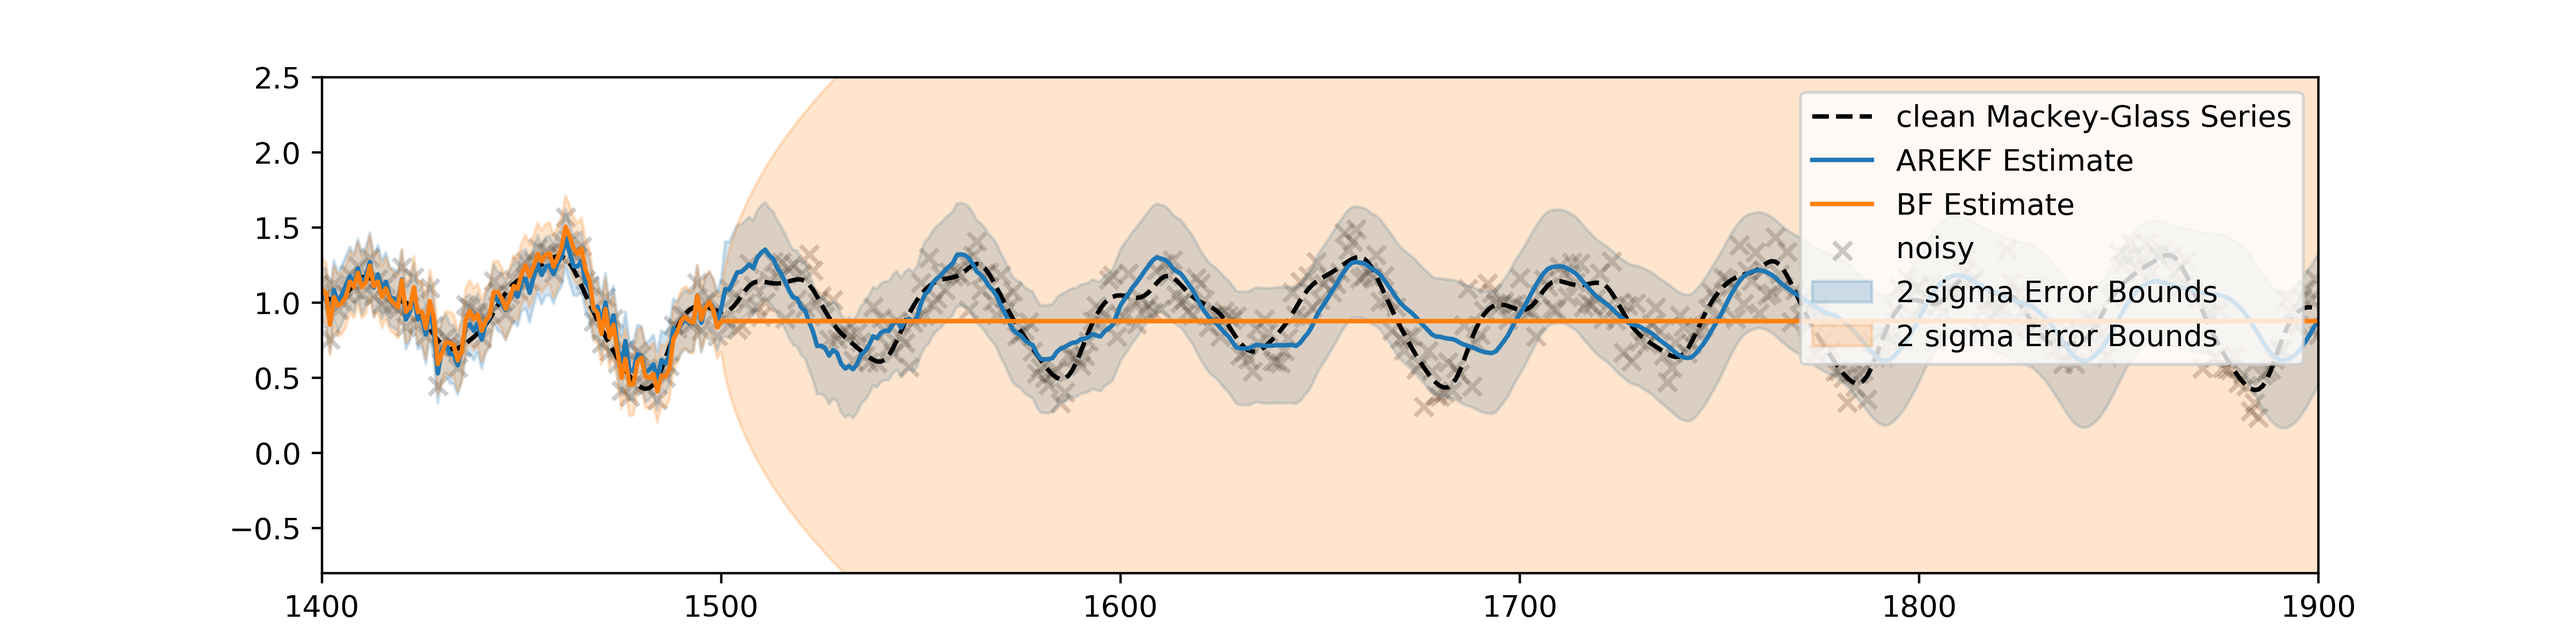
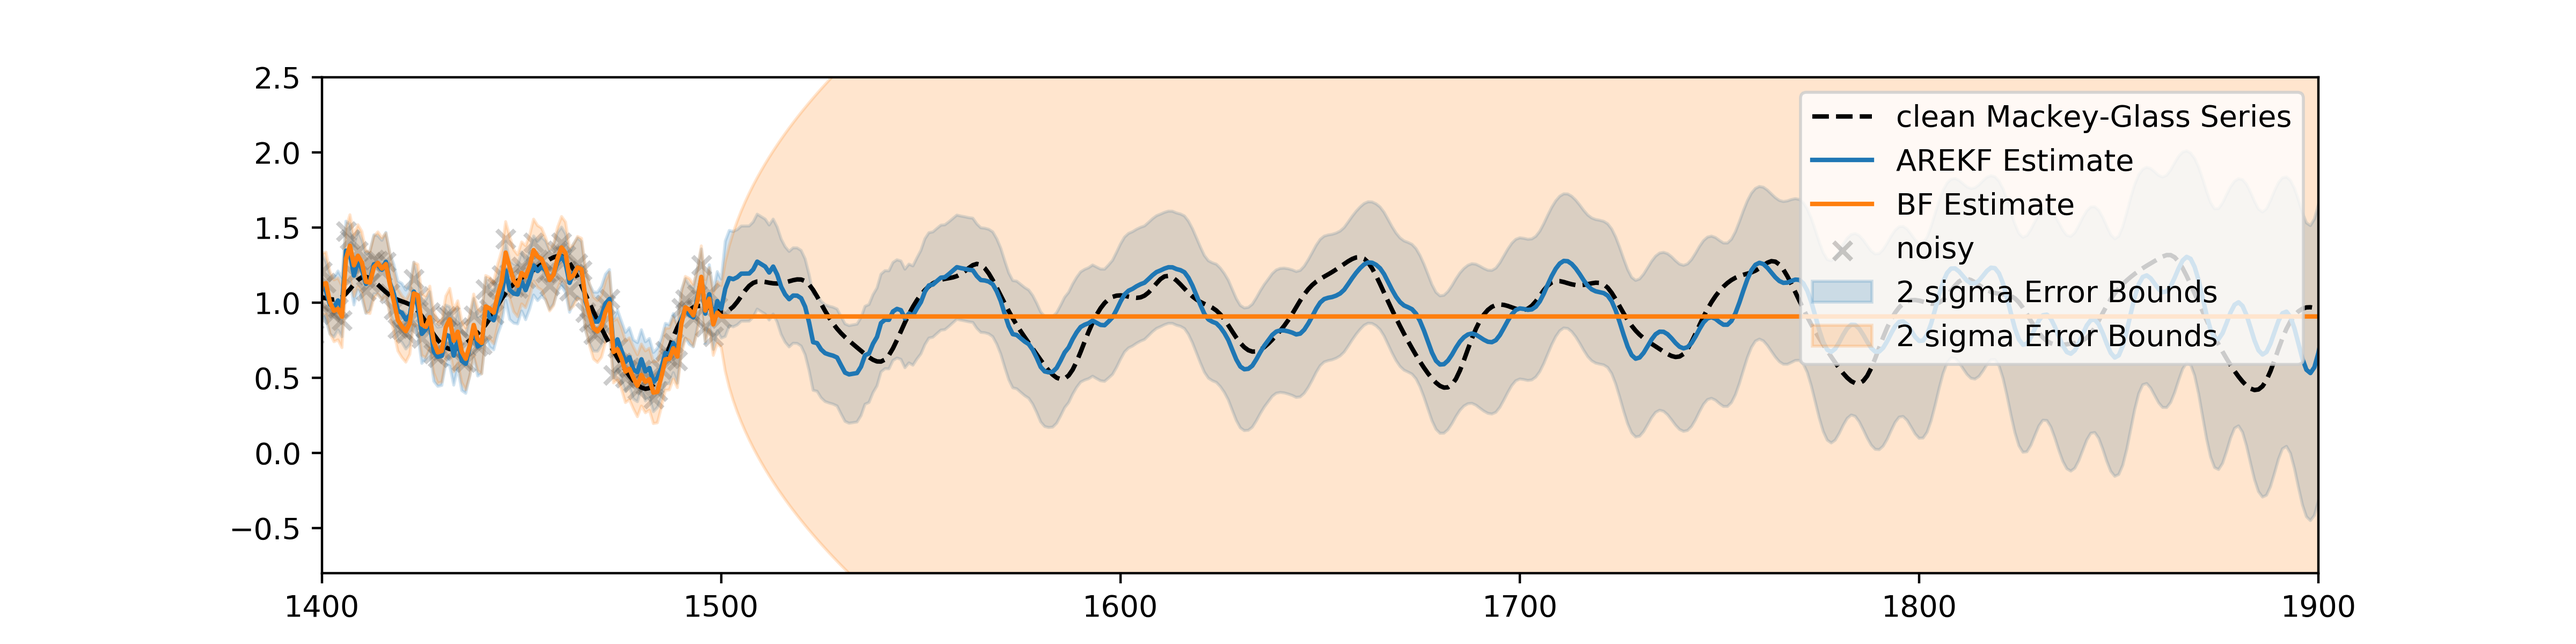
.

Changed region(s): [[0.125, 0.2775, 0.9062, 0.8017], [0.875, 0.3392, 0.9062, 0.4008], [0.3438, 0.3083, 0.375, 0.3392]]

diff --git a/KalmanFilters.py b/KalmanFilters.py
@@ -276,19 +276,32 @@ class AutoRegressiveExtendedKalmanFilter:
 
 class MatrixSqrt:
     def __init__(self):
-        self.X = T.fmatrix()
-
         E = T.nlinalg.Eigh()
         I = T.nlinalg.MatrixInverse()
 
-        D, P = E(self.X)
-        D = T.nlinalg.diag(D)
-        P_ = I(P)
+        def SqrtM(X):
+            D, P = E(X)
+            D = T.nlinalg.diag(D)
+            P_ = I(P)
 
-        self.matrix_inv = theano.function([self.X],
-                                          T.dot(P,T.dot(T.sqrt(D),P_)),
-                                          allow_input_downcast=True)
+            return T.dot(P,T.dot(T.sqrt(D),P_))
 
-    def __call__(self,
-                 x):
-        return self.matrix_inv(x)
+        self.SqrtM = SqrtM
+
+    def __call__(self, X):
+        return self.SqrtM(X)
+
+
+
+class sqrtm:
+    def __init__(self):
+        self.X = T.fmatrix()
+
+        sqrtm = MatrixSqrt()
+
+        self.sqrtm = theano.function([self.X],
+                                     sqrtm(self.X),
+                                     allow_input_downcast=True)
+
+    def __call__(self, X):
+        return self.sqrtm(X)

diff --git a/testTimeMatrixSqrt.py b/testTimeMatrixSqrt.py
@@ -1,0 +1,45 @@
+import time
+import numpy as np
+from KalmanFilters import MatrixSqrt, sqrtm
+from sklearn.datasets import make_spd_matrix
+import scipy.linalg
+import matplotlib.pyplot as plt
+
+sqrtm = sqrtm()
+
+
+m = []
+N = 100
+
+result = []
+
+for M in np.square(np.arange(2,11)):
+    for k in range(N):
+        m.append(make_spd_matrix(M))
+
+    Tt0 = time.time()
+    error = []
+    for A in m:
+        B = np.matrix(sqrtm(A))
+    Tt1 = time.time()
+
+
+    St0 = time.time()
+    error = []
+    for A in m:
+        B = np.matrix(scipy.linalg.sqrtm(A))
+    St1 = time.time()
+
+    result.append([M, (Tt1 - Tt0) / N, (St1 - St0) / N])
+
+result = np.array(result)
+
+ax = plt.subplot(111)
+plt.plot(result[:,0], result[:,1], label='Theano (precompiled)')
+plt.plot(result[:,0], result[:,2], label='SciPy')
+plt.yscale('log')
+plt.xlabel('Matrix Dimension (NxN)')
+plt.ylabel('log Time (sec)')
+plt.legend(loc='upper left')
+plt.savefig('Results/MatrixSquareRootTiming.png', dpi=400)
+plt.show()

diff --git a/testMatrixSqrt.py b/testMatrixSqrt.py
@@ -1,9 +1,11 @@
 import time
 import numpy as np
-from KalmanFilters import MatrixSqrt
+from KalmanFilters import MatrixSqrt, sqrtm
 from sklearn.datasets import make_spd_matrix
+import scipy.linalg
 
-sqrtm = MatrixSqrt()
+sqrtm = sqrtm()
+
 
 m = []
 N = 1000
@@ -13,8 +15,20 @@ for k in range(N):
     m.append(make_spd_matrix(M))
 
 t0 = time.time()
+error = []
 for A in m:
-    B = np.matrix(sqrtm(A))
+    B = np.matrix(sqrtm.sqrtm(A))
+    error.append(np.mean(np.square(B * B - A)))
 
 
-print 'took ', (time.time() - t0)/N, ' for matrix square root.'
+print 'took ', (time.time() - t0)/N, ' for theano matrix square root with MSE ', np.mean(error)
+
+
+t0 = time.time()
+error = []
+for A in m:
+    B = np.matrix(scipy.linalg.sqrtm(A))
+    error.append(np.mean(np.square(B * B - A)))
+
+
+print 'took ', (time.time() - t0)/N, ' for scipy matrix square root with MSE ', np.mean(error)

diff --git a/testAutoRegressiveEKFPrediction.py b/testAutoRegressiveEKFPrediction.py
@@ -58,7 +58,7 @@ ekf_est_p = np.array(ekf_est_p)
 
 plt.figure(figsize=(12,3))
 plt.plot(t, b, 'k--', label='clean Mackey-Glass Series')
-plt.scatter(t, b_, c='k', marker='x', alpha=0.2, label='noisy')
+plt.scatter(t[:E], b_[:E], c='k', marker='x', alpha=0.2, label='noisy')
 plt.plot(t, ekf_est_x, c='C0', label='AREKF Estimate')
 plt.plot(t, bf_est_x, c='C1', label='BF Estimate')
 plt.fill_between(t,

diff --git a/README.md b/README.md
@@ -39,3 +39,39 @@ We can use the autoregressive model within an EKF framework to make better predi
 Using a model for prediction makes the future estimates more accurate as shown in the plot below.
 
 ![](https://github.com/JamesUnicomb/KaFiTh/blob/master/Results/AutoRegressiveEKFPrediction.png)
+
+
+## Matrix Square Root in Python
+
+We can use theano to make a significant decrease in timing (although it takes time to precompile). This is useful for the implementation of the Unscented Kalman Filter or if you have to calculate the matrix square root multiple times.
+
+### How to Use
+There is currently no error handling. If the matrix is not of a particular type the result will be nan.
+
+#### Precompile
+If you want a precompiling function for calculating the matrix square root:
+```
+from KalmanFilters import sqrtm
+A     = ~(positive semi-definite matrix - covariance matrix)
+sqrtm = sqrtm() # THIS PRECOMPILES THE FUNCTION
+B     = sqrtm(A)
+
+sum(square(B * B - A)) < eps # Where eps is a small value
+```
+
+#### As a Theano variable
+If you want to use this in already existing code as a Theano function:
+```
+import theano
+from KalmanFilters import MatrixSqrt
+
+sqrtm = MatrixSqrt()
+
+X     = theano.tensor.fmatrix()
+SqrtX = sqrtm(X)                 #This gives you the square root of the matrix X
+```
+
+
+### Speed Pay-Off
+From the plot, we can see that the precompiled theano function is an order of magnitude (approx. 6 times faster than using a scipy function).
+![]((https://github.com/JamesUnicomb/KaFiTh/blob/master/Results/AutoRegressiveEKFPrediction.png) | width=100))
